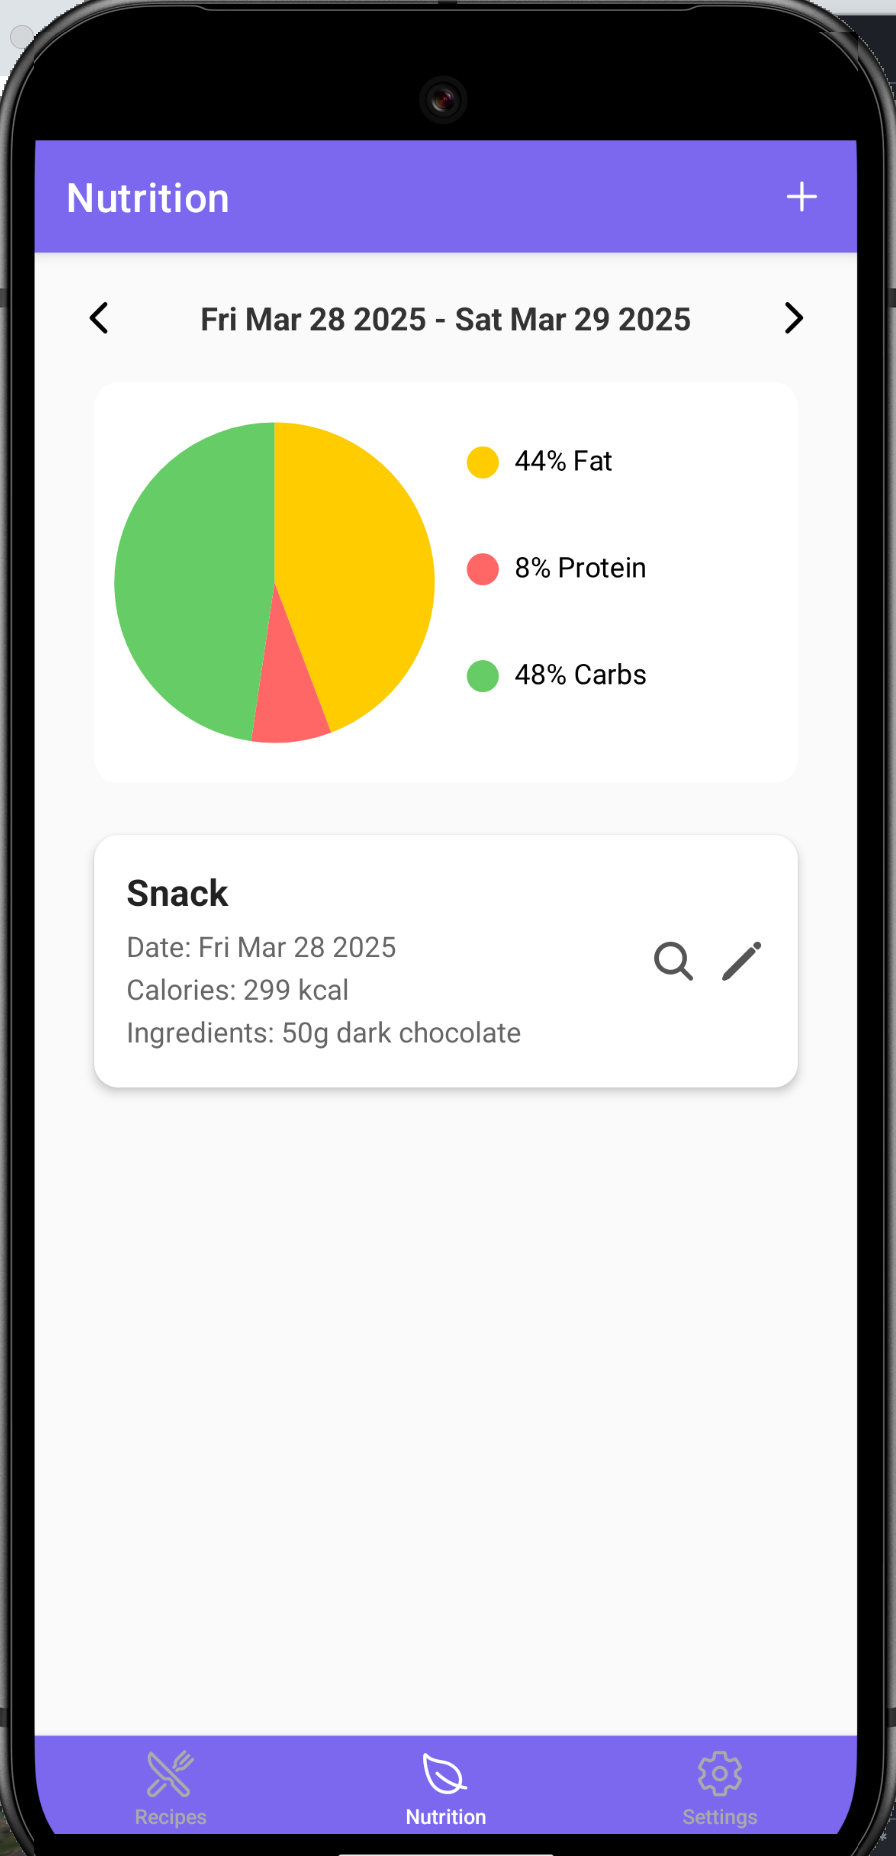
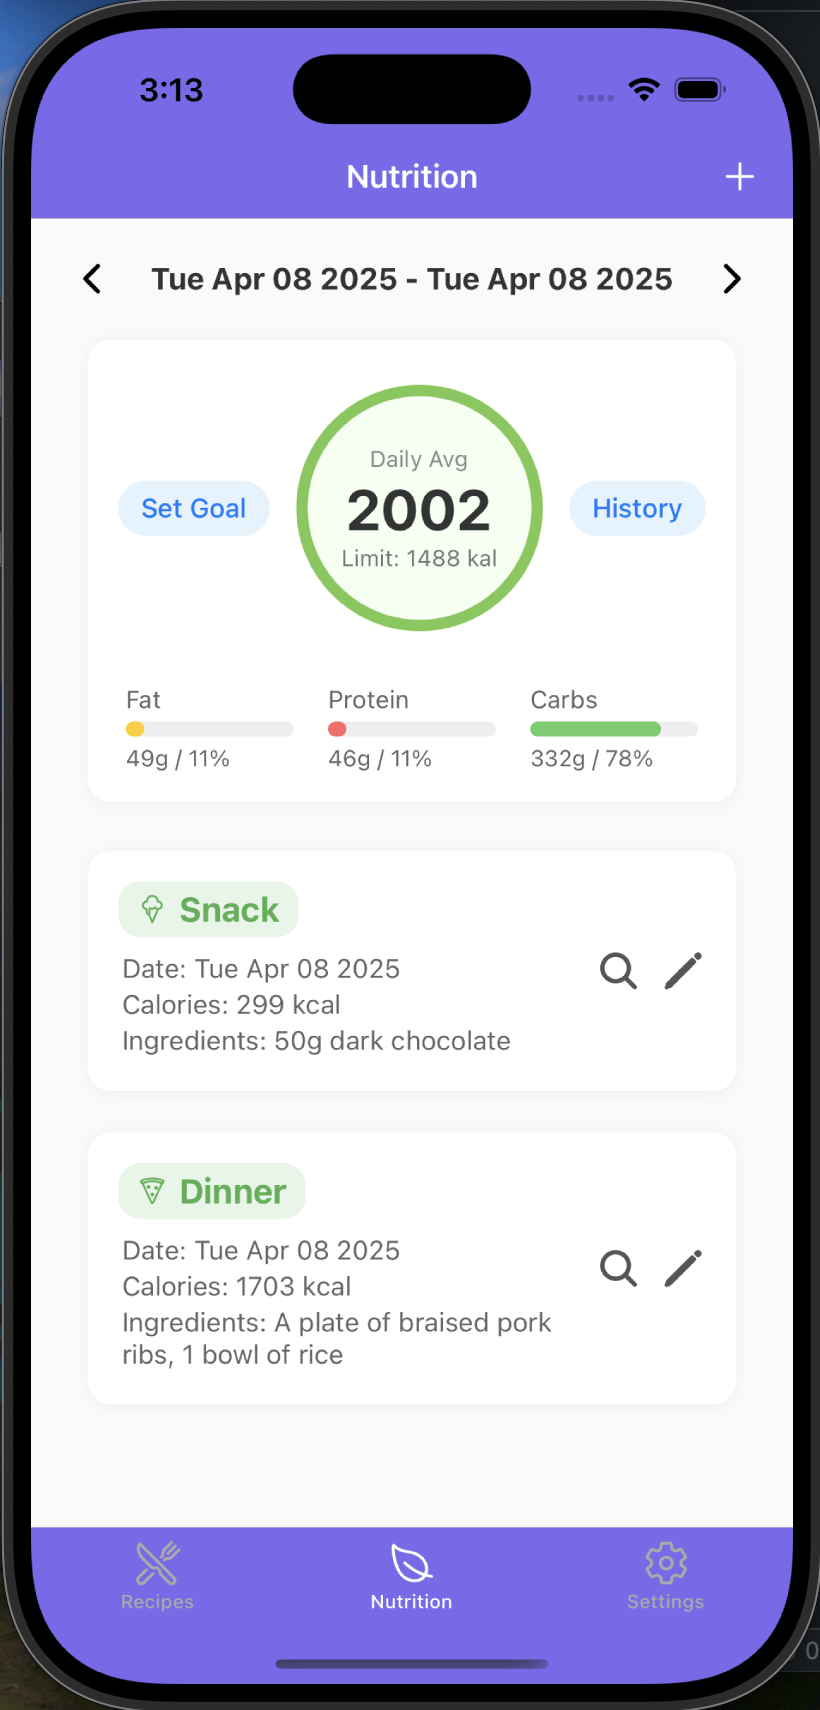
docs: update README to include new notification collection and features; enhance UI with background image and buttons

diff --git a/app/index.tsx b/app/index.tsx
@@ -13,7 +13,7 @@
 // }
 
 import React from 'react';
-import { View, Text, StyleSheet, ScrollView, Button, Alert } from 'react-native';
+import { View, Text, StyleSheet, ScrollView, Button, Alert, ImageBackground, Pressable } from 'react-native';
 import { router } from 'expo-router';
 import { auth } from '@/firebase/firebaseSetup';
 import RecipeCard from '@/components/RecipeCard';
@@ -46,6 +46,8 @@ export default function IndexScreen() {
     require('../assets/recipePhoto/avocado_toast.png'),
     require('../assets/recipePhoto/quinoa_salad.png'),
   ];
+  
+  const randomImage = recipeImages[Math.floor(Math.random() * recipeImages.length)];
 
   function handleViewAllRecipes() {
     const currentUser = auth.currentUser;
@@ -59,26 +61,45 @@ export default function IndexScreen() {
   }
 
   return (
-    <ScrollView contentContainerStyle={styles.container}>
-      <Text style={styles.title}>SmartBite</Text>
-      <Text style={styles.subtitle}>
-        Your AI-powered recipe assistant. Discover delicious and healthy meals tailored for you!
-      </Text>
+    // <ScrollView contentContainerStyle={styles.container}>
+    //   <Text style={styles.title}>SmartBite</Text>
+    //   <Text style={styles.subtitle}>
+    //     Your AI-powered recipe assistant. Discover delicious and healthy meals tailored for you!
+    //   </Text>
 
-      <Text style={styles.sectionTitle}>Sample Recipes</Text>
-      {sampleRecipes.map((recipe, index) => (
-        <RecipeCard
-          key={recipe.id}
-          recipe={recipe}
-          onPress={() => {}}
-          localImage={recipeImages[index]}
-        />
-      ))}
+    //   <Text style={styles.sectionTitle}>Sample Recipes</Text>
+    //   {sampleRecipes.map((recipe, index) => (
+    //     <RecipeCard
+    //       key={recipe.id}
+    //       recipe={recipe}
+    //       onPress={() => {}}
+    //       localImage={recipeImages[index]}
+    //     />
+    //   ))}
 
-      <View style={{ marginTop: 20 }}>
-        <Button title="View All Recipes" onPress={handleViewAllRecipes} />
+    //   <View style={{ marginTop: 20 }}>
+    //     <Button title="View All Recipes" onPress={handleViewAllRecipes} />
+    //   </View>
+    // </ScrollView>
+
+    <ImageBackground
+      source={randomImage}
+      style={styles.background}
+      resizeMode="cover"
+    >
+      <View style={styles.overlay}>
+        <Text style={styles.logo}>SmartBite</Text>
+        <Text style={styles.tagline}>
+          Your AI-powered recipe assistant. {'\n'}
+          Discover and record delicious and healthy meals tailored for you!
+        </Text>
+
+        <Pressable style={styles.button} onPress={handleViewAllRecipes}>
+          <Text style={styles.buttonText}>Get Started</Text>
+        </Pressable>
+
       </View>
-    </ScrollView>
+    </ImageBackground>
   );
 }
 
@@ -106,5 +127,50 @@ const styles = StyleSheet.create({
     fontWeight: '600',
     alignSelf: 'flex-start',
     marginBottom: 12,
+  },
+
+  background: {
+    flex: 1,
+    justifyContent: 'center',
+  },
+  overlay: {
+    flex: 1,
+    justifyContent: 'flex-end',
+    alignItems: 'center',
+    padding: 24,
+    paddingBottom: 64,
+    backgroundColor: 'rgba(0,0,0,0.4)', // Optional dimming effect
+  },
+  logo: {
+    fontSize: 36,
+    fontWeight: 'bold',
+    color: '#fff',
+    marginBottom: 12,
+  },
+  tagline: {
+    fontSize: 16,
+    color: '#eee',
+    textAlign: 'center',
+    marginBottom: 48,
+  },
+  button: {
+    backgroundColor: '#8A4FFF',
+    paddingVertical: 16,
+    paddingHorizontal: 60,
+    borderRadius: 30,
+    marginBottom: 20,
+  },
+  buttonText: {
+    color: '#fff',
+    fontSize: 16,
+    fontWeight: 'bold',
+  },
+  loginText: {
+    color: '#ccc',
+    fontSize: 14,
+  },
+  loginLink: {
+    color: '#A5D6A7',
+    fontWeight: '600',
   },
 });

diff --git a/components/NutritionFacts.tsx b/components/NutritionFacts.tsx
@@ -43,7 +43,7 @@ export default function NutritionFacts({ nutrients }: NutritionFactsProps) {
       </View>
 
       {/* Footer */}
-      <Text style={styles.footerText}>*Percent Daily Values are based on a 2000 calorie diet</Text>
+      <Text style={styles.footerText}>*Nutrient values are estimated. For reference only.</Text>
     </View>
   );
 }
@@ -95,6 +95,6 @@ const styles = StyleSheet.create({
     fontSize: 12,
     color: "#666",
     marginTop: 8,
-    textAlign: "center",
+    // textAlign: "center",
   },
 });

diff --git a/components/MealsList.tsx b/components/MealsList.tsx
@@ -81,6 +81,8 @@ export default function MealsList({startDate, endDate} : MealsListProps) {
             { name: "Protein", value: 0, color: "#FF6666" },
             { name: "Carbs", value: 0, color: "#66CC66" },
           ]);
+          setTodayCalories(0);
+          setAverageCalories(0);
         } else {
           let newMeals: mealsFromDB[] = [];
           let totalFat = 0, totalProtein = 0, totalCarbs = 0;

diff --git a/README.md b/README.md
@@ -5,10 +5,10 @@ We have structured our Firestore database to ensure **efficient data retrieval, 
 
 ### **Top-Level Collection:**  
 - **`users`** → Each user has their own data.
-- Contains two sub-collections:
+- Contains 3 sub-collections:
   - meals
   - recipes
-- Currently, the user document itself is empty, but we plan to add fields in the future (e.g., profile preferences, avatar, signup date).
+  - notification *(new)*
 
 ### **Sub-Collections (under `users/{userId}`):**  
 - **`meals`** → Stores meal logs for each user (`{mealId}` document). When a meal is added, its nutrition is automatically analyzed 
@@ -53,9 +53,18 @@ Users can create, edit, delete, and mark recipes as favorite. Each document (`{r
   - ✅ **Update** recipes using `updateRecipe()`, profile using `updateUserProfile`.
   - ✅ **Delete** recipes using `deleteRecipe()` or `deleteAllRecipes()`.
 
- 
+- **`notification`** → New collection to manage daily calorie reminders.
 
-📌 **Database structure may change as needed** based on further requirements and optimizations.
+  ```ts
+  notification Schema (document: dailyCalories)
+  {
+    calorieLimit: number;
+    notificationEnabled: boolean;
+    lastNotificationDate: string | null;
+  }
+  ```
+  - ✅ **Create/Update** with `writeDailyCalorieToDB()`
+  - ✅ **Update notification history** with `updateLastNotificationDate()`
 
 ---
 
@@ -72,6 +81,8 @@ We've implemented the core nutrition tracking functionalities, including:
 3. **Viewing detailed nutrition breakdown** for each meal.  
 4. **Editing or deleting meals** as needed.  
 5. **Uploading meal images** using the device camera, with image storage integrated via Firebase Storage.
+6. **Showing history daily calorie totals and nutrient breakdown** over time.
+7. **Setting calorie goals with optional notifications**, including daily reminders when limit is exceeded.  
 
 
 #### Nutrition Screenshot:  
@@ -80,6 +91,8 @@ We've implemented the core nutrition tracking functionalities, including:
 <img src="assets/nutritionPhoto/addMeal.png" alt="Add Meals" width="20%"/>
 <img src="assets/nutritionPhoto/editMeal.png" alt="Edit Meals" width="20%"/>
 <img src="assets/nutritionPhoto/mealDetail.png" alt="Meals Detail" width="20%"/>
+<img src="assets/nutritionPhoto/setGoal.png" alt="Set Calorie Goal" width="20%"/>
+<img src="assets/nutritionPhoto/nutritionHistory.png" alt="Nutrition History Chart" width="20%"/>
 
 ### 🍳 Recipe Features  
 
@@ -133,6 +146,9 @@ We've implemented the core recipe management functionalities, including:
 - Developed UI screens: `AllNutrition.tsx`, `AddMeal.tsx`, `EditMeal.tsx`, and `MealDetail.tsx`.  
 - Implemented automatic nutrition analysis using an external API.  
 - Integrated image upload functionality for meals via Firebase Storage.
+- Developed the `NutritionHistory.tsx` screen to visualize calories and nutrient breakdown history using line charts.
+- Added calorie goal setting with notification reminders via Expo Notifications.
+- Built the `notification` collection schema and listeners to avoid duplicate popups.    
 
 ---
 
@@ -154,7 +170,7 @@ We've implemented the core recipe management functionalities, including:
 
 ## 4. Next Steps  
 - Integrate **camera functionality** for recipe photo uploads. - Done
-- Implement **notifications** to allow users to schedule reminders. 
+- Implement **notifications** to allow users to schedule reminders. - Done
 - Add **user authentication** to enable secure login and personalized data storage. - Done
 - Improve **UI & Styling** for a better user experience.
 - Acheieve **location** for grocery store recommendations.
